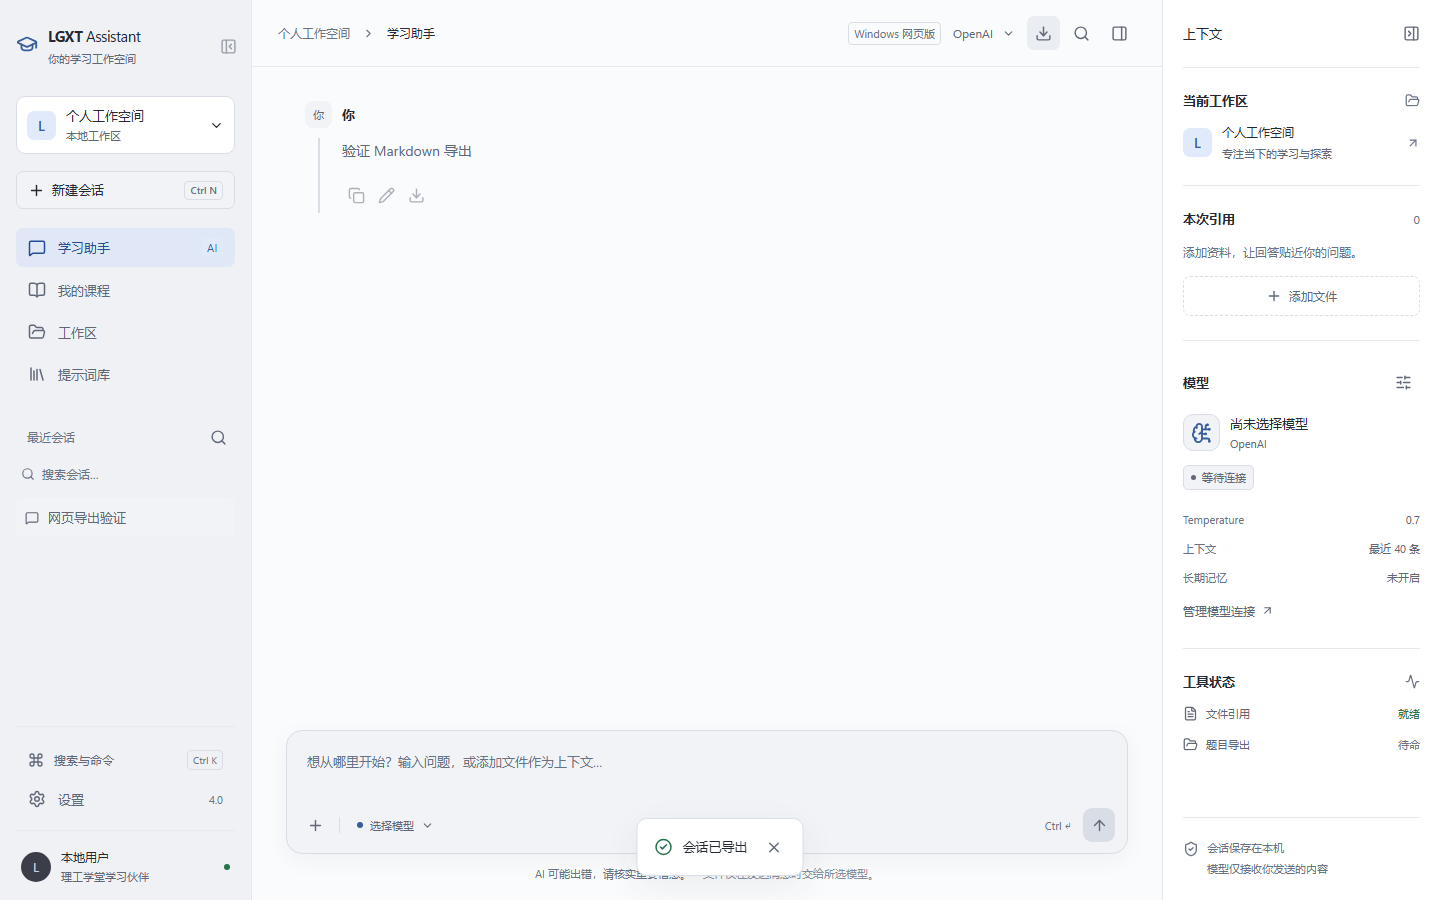
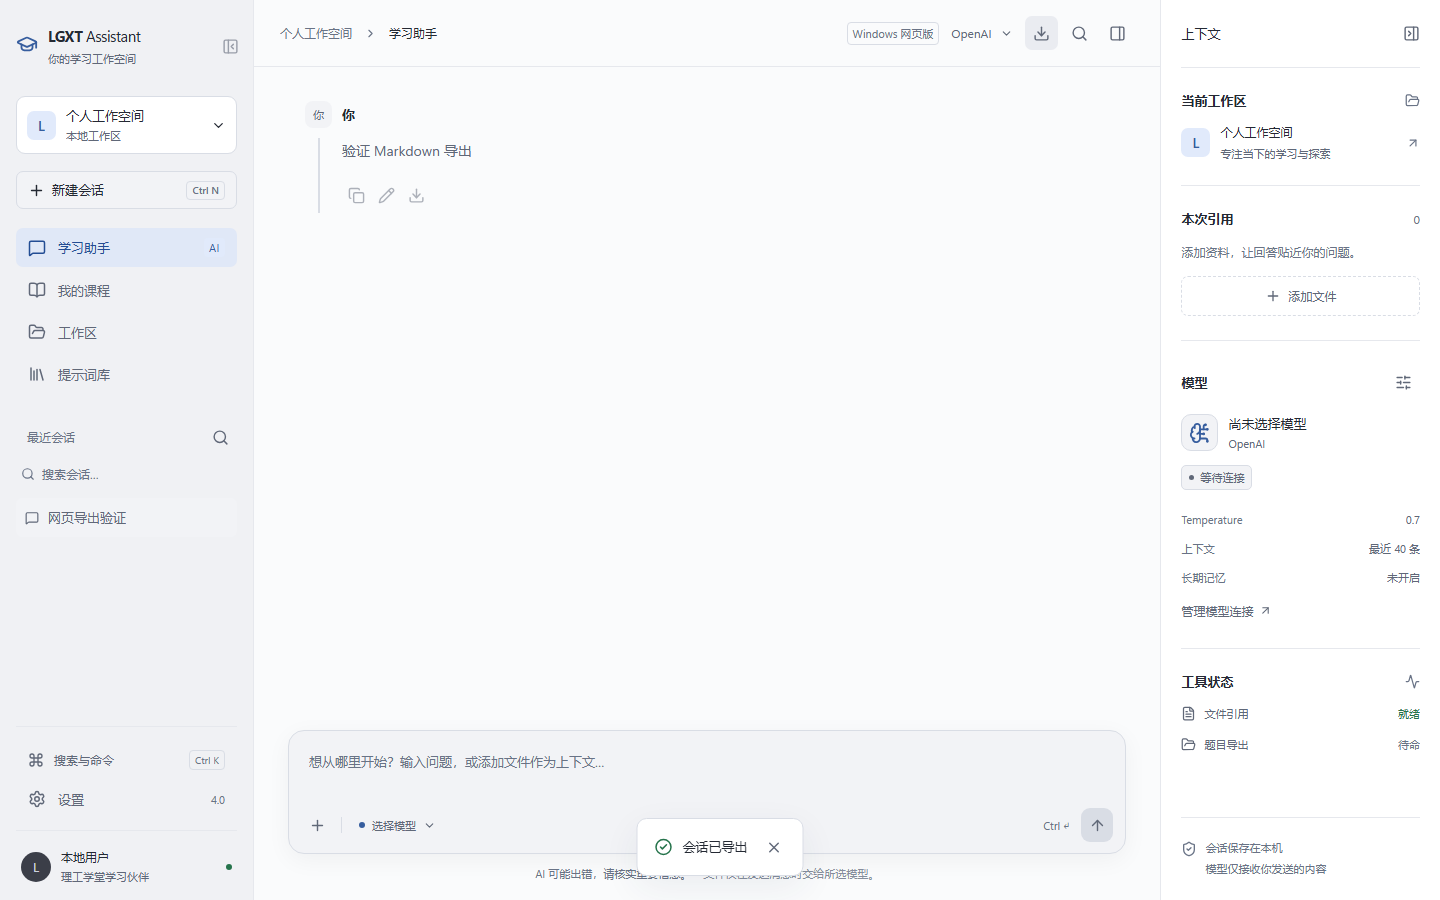
Repair regression findings and isolate blocked Android release gates

diff --git a/frontend/src/components/Courses.jsx b/frontend/src/components/Courses.jsx
@@ -422,11 +422,11 @@ export default function Courses({
                     </small>
                   </div>
                   <Badge
-                    status={r.grade != null && r.grade !== "" ? "success" : ""}
+                    status={r.grade !== null && r.grade !== undefined && r.grade !== "" ? "success" : ""}
                   >
-                    {r.grade != null && r.grade !== ""
+                    {r.grade !== null && r.grade !== undefined && r.grade !== ""
                       ? `${r.grade} 分`
-                      : r.tryTimes != null && r.times != null ? `剩余 ${Math.max(0, Number(r.tryTimes) - Number(r.times))} 次` : "次数未知"}
+                      : r.tryTimes !== null && r.tryTimes !== undefined && r.times !== null && r.times !== undefined ? `剩余 ${Math.max(0, Number(r.tryTimes) - Number(r.times))} 次` : "次数未知"}
                   </Badge>
                   <ArrowRight size={17} />
                 </button>
@@ -504,7 +504,7 @@ function Confirm({ data, onClose, toast }) {
       }}
     >
       <p className="dialog-copy">{data.text}</p>
-      {data.works && <ul className="batch-preview">{data.works.map(w => <li key={w.workId}>{w.workName}（{w.tryTimes != null && w.times != null ? `剩余 ${Math.max(0, Number(w.tryTimes)-Number(w.times))} 次` : "次数未知"}）</li>)}</ul>}
+      {data.works && <ul className="batch-preview">{data.works.map(w => <li key={w.workId}>{w.workName}（{w.tryTimes !== null && w.tryTimes !== undefined && w.times !== null && w.times !== undefined ? `剩余 ${Math.max(0, Number(w.tryTimes)-Number(w.times))} 次` : "次数未知"}）</li>)}</ul>}
       <div className="dialog-actions">
         <Button disabled={busy} onClick={onClose}>
           取消

diff --git a/mobile/src/lgxt_transport.py b/mobile/src/lgxt_transport.py
@@ -47,7 +47,8 @@ class APIClient:
         if (parsed.scheme not in ('http', 'https') or not parsed.hostname or parsed.username
                 or parsed.password or parsed.query or parsed.fragment):
             raise ValueError('无效的平台 API 地址')
-        if parsed.port not in (None, 80 if parsed.scheme == 'http' else 443):
+        default_port = 80 if parsed.scheme == 'http' else 443
+        if parsed.port is not None and parsed.port != default_port:
             raise ValueError('不支持的平台端口')
         self.base_url = base_url.rstrip('/')
         self.allow_insecure = bool(allow_insecure)
@@ -171,8 +172,11 @@ class APIClient:
             parsed, origin = urlsplit(url), urlsplit(self.base_url)
             if (parsed.scheme not in ('http', 'https') or parsed.hostname != origin.hostname
                     or parsed.username or parsed.password or parsed.fragment
-                    or parsed.port not in (None, 443 if parsed.scheme == 'https' else 80)
+                    or (parsed.port is not None and parsed.port not in (80, 443))
                     or (parsed.scheme == 'http' and not self.allow_insecure)):
+                raise ValueError()
+            default_port = 443 if parsed.scheme == 'https' else 80
+            if parsed.port is not None and parsed.port != default_port:
                 raise ValueError()
             addresses = socket.getaddrinfo(parsed.hostname, parsed.port or (443 if parsed.scheme == 'https' else 80), type=socket.SOCK_STREAM)
             if not addresses or any(not ipaddress.ip_address(a[4][0]).is_global for a in addresses):

diff --git a/scripts/check_assignment.py b/scripts/check_assignment.py
@@ -4,6 +4,7 @@ import functools
 import http.server
 import io
 import json
+import sys
 import threading
 from pathlib import Path
 
@@ -104,5 +105,5 @@ try:
   assert page.evaluate('window.__test.writes.length')==1
   assert not errors,errors
   browser.close()
- print(json.dumps({'ok':True,'checks':['three batch scopes','confirmation','cancel','question image','OCR correction','safe math','rich text and table','document persistence','contextual AI','390x844 and keyboard-height layout'],'console_errors':errors}))
+ sys.stdout.write(json.dumps({'ok':True,'checks':['three batch scopes','confirmation','cancel','question image','OCR correction','safe math','rich text and table','document persistence','contextual AI','390x844 and keyboard-height layout'],'console_errors':errors}))
 finally:server.shutdown()

diff --git a/scripts/verify_release.py b/scripts/verify_release.py
@@ -2,6 +2,7 @@
 import argparse
 import hashlib
 import json
+import sys
 import subprocess
 from pathlib import Path
 
@@ -37,6 +38,6 @@ def main():
         if name in entries:assert entries[name]==digest
     if args.tag.endswith('-web'):
         assert not any(name.endswith('.apk') or 'Desktop' in name for name in assets)
-    print(json.dumps({'verified':True,'tag':args.tag,'url':release['html_url'],'assets':sorted(assets),'draft':release['draft']}))
+    sys.stdout.write(json.dumps({'verified':True,'tag':args.tag,'url':release['html_url'],'assets':sorted(assets),'draft':release['draft']}))
 
 if __name__=='__main__':main()

diff --git a/tests/test_mobile.py b/tests/test_mobile.py
@@ -43,8 +43,12 @@ def walk(control):
 
 def controls(page):return list(walk(page.views[-1]))
 
+def matches(control,key,value):
+    actual=getattr(control,key,None)
+    return actual==value
+
 def find(page,typ,**attrs):
-    return next(c for c in controls(page) if isinstance(c,typ) and all(getattr(c,k,None)==v for k,v in attrs.items()))
+    return next(c for c in controls(page) if isinstance(c,typ) and all(matches(c,k,v) for k,v in attrs.items()))
 
 def wait_for(fn):
     for _ in range(200):

diff --git a/scripts/preview_mobile.py b/scripts/preview_mobile.py
@@ -5,4 +5,4 @@ ROOT=Path(__file__).resolve().parents[1]
 sys.path.insert(0,str(ROOT))
 import flet as ft
 from mobile.src.main import main
-ft.app(target=main, view=ft.AppView.WEB_BROWSER, port=8550, host='127.0.0.1', web_renderer=ft.WebRenderer.HTML)
+ft.app(target=main, view=ft.AppView.WEB_BROWSER, port=8551, host='127.0.0.1', web_renderer=ft.WebRenderer.CANVAS_KIT)

diff --git a/docs/VERIFICATION.md b/docs/VERIFICATION.md
@@ -29,7 +29,7 @@ Date: 24 October 2026 (Asia/Singapore). This record separates executed checks fr
 
 Windows local builds and exact-tag GitHub build/startup workflows are being verified. A build command alone is not acceptance; both actual desktop EXEs and the Web EXE must pass their smoke checks. No merge/tag/release is claimed by this interim record.
 
-Android signing secrets are absent (`gh secret list` returned no secrets). No new signed APK, physical-device check or production Android release is claimed. Flet browser preview has additional runtime/toolchain dependencies and must not be mislabeled as Android acceptance.
+Android signing secrets are absent (`gh secret list` returned no secrets). No new signed APK, physical-device check or production Android release is claimed. Flet browser preview required compatible flet-web/FastAPI versions and stalled at its loading screen in this environment. `flet-runtime-loading-390.png` records only that loading state, not the updated Android interface. No Android visual acceptance is claimed.
 
 No real platform login, grade submission, paid model generation, live OCR accuracy benchmark, handwriting/diagram study, LAN deployment or independent final-grade verification was executed. Fixture tests do not establish real-provider compatibility or platform permission.
 
@@ -52,3 +52,5 @@ py -3.13 scripts/check_web.py --exe dist/LGXT-Assistant-Web.exe
 ```
 
 See the GitHub PR and workflow links in the final delivery record for post-commit results. Published assets, if any, are independently checked by `scripts/verify_release.py` against SHA256SUMS and GitHub asset digests. Historical releases are unchanged.
+
+Android dependency blocker: the pinned Flet 0.25.2 runtime requires oauthlib <4, while PYSEC-2026-4114 is fixed in oauthlib 4.0.0. Flet 0.28.3 has the same cap; current Flet 1.0.5 changes the client API and needs a separately validated migration. The Android dependency audit remains a hard failing Android gate, with no ignored advisory or continue-on-error. Windows runtime requirements do not include Flet/oauthlib; its audit and publication are independent. No Android APK will be published from this state.

diff --git a/docs/releases/v4.1.0.md b/docs/releases/v4.1.0.md
@@ -4,7 +4,7 @@ Windows 10/11 x64 + WebView2. EXE and full portable ZIP, SHA256SUMS.txt. No new 
 
 # Assignment upgrade release notes
 
-Channel candidates: Windows desktop **4.1.0**, Windows web **4.2.0-web**, Android **3.3.0-android**. These are beta feature releases; passing CI does not establish stable maturity. Availability is recorded in [verification](docs/VERIFICATION.md) and on each GitHub release page.
+Channel candidates: Windows desktop **4.1.0**, Windows web **4.2.0-web**, Android **3.3.0-android**. These are beta feature releases; passing CI does not establish stable maturity. Availability is recorded in [verification](../VERIFICATION.md) and on each GitHub release page.
 
 The minor increments reflect additive assignment documents, contextual AI and recognition workflows. Desktop advances from 4.0.1 to 4.1.0; web from 4.1.0-web to 4.2.0-web; Android source from historical 3.2.1 to 3.3.0-android. Old workspace/chat files remain usable. Requiring explicit HTTP compatibility is an intentional security behavior change.
 
@@ -20,3 +20,5 @@ The official HTTP endpoint responds; HTTPS was not verified. Insecure compatibil
 Android signing secrets and physical-device/emulator acceptance are unavailable. Its release must remain unpublished. Windows packaging and publication require checks against the exact intended source/tag; checksums are meaningful only for the assets actually attached to that release. Historical releases and tags are not rewritten.
 
 Application license remains AGPL-3.0-only. Tiptap/ProseMirror MIT notices are distributed; prior attribution remains in NOTICE.md.
+
+Android dependency blocker: the pinned Flet 0.25.2 runtime requires oauthlib <4, while PYSEC-2026-4114 is fixed in oauthlib 4.0.0. Flet 0.28.3 has the same cap; current Flet 1.0.5 changes the client API and needs a separately validated migration. The Android dependency audit remains a hard failing Android gate, with no ignored advisory or continue-on-error. Windows runtime requirements do not include Flet/oauthlib; its audit and publication are independent. No Android APK will be published from this state.

diff --git a/docs/releases/v4.2.0-web.md b/docs/releases/v4.2.0-web.md
@@ -4,7 +4,7 @@ Windows 10/11 x64. Local browser EXE, loopback only, SHA256SUMS.txt; retain its 
 
 # Assignment upgrade release notes
 
-Channel candidates: Windows desktop **4.1.0**, Windows web **4.2.0-web**, Android **3.3.0-android**. These are beta feature releases; passing CI does not establish stable maturity. Availability is recorded in [verification](docs/VERIFICATION.md) and on each GitHub release page.
+Channel candidates: Windows desktop **4.1.0**, Windows web **4.2.0-web**, Android **3.3.0-android**. These are beta feature releases; passing CI does not establish stable maturity. Availability is recorded in [verification](../VERIFICATION.md) and on each GitHub release page.
 
 The minor increments reflect additive assignment documents, contextual AI and recognition workflows. Desktop advances from 4.0.1 to 4.1.0; web from 4.1.0-web to 4.2.0-web; Android source from historical 3.2.1 to 3.3.0-android. Old workspace/chat files remain usable. Requiring explicit HTTP compatibility is an intentional security behavior change.
 
@@ -20,3 +20,5 @@ The official HTTP endpoint responds; HTTPS was not verified. Insecure compatibil
 Android signing secrets and physical-device/emulator acceptance are unavailable. Its release must remain unpublished. Windows packaging and publication require checks against the exact intended source/tag; checksums are meaningful only for the assets actually attached to that release. Historical releases and tags are not rewritten.
 
 Application license remains AGPL-3.0-only. Tiptap/ProseMirror MIT notices are distributed; prior attribution remains in NOTICE.md.
+
+Android dependency blocker: the pinned Flet 0.25.2 runtime requires oauthlib <4, while PYSEC-2026-4114 is fixed in oauthlib 4.0.0. Flet 0.28.3 has the same cap; current Flet 1.0.5 changes the client API and needs a separately validated migration. The Android dependency audit remains a hard failing Android gate, with no ignored advisory or continue-on-error. Windows runtime requirements do not include Flet/oauthlib; its audit and publication are independent. No Android APK will be published from this state.

diff --git a/docs/releases/assignment-upgrade.md b/docs/releases/assignment-upgrade.md
@@ -1,6 +1,6 @@
 # Assignment upgrade release notes
 
-Channel candidates: Windows desktop **4.1.0**, Windows web **4.2.0-web**, Android **3.3.0-android**. These are beta feature releases; passing CI does not establish stable maturity. Availability is recorded in [verification](docs/VERIFICATION.md) and on each GitHub release page.
+Channel candidates: Windows desktop **4.1.0**, Windows web **4.2.0-web**, Android **3.3.0-android**. These are beta feature releases; passing CI does not establish stable maturity. Availability is recorded in [verification](../VERIFICATION.md) and on each GitHub release page.
 
 The minor increments reflect additive assignment documents, contextual AI and recognition workflows. Desktop advances from 4.0.1 to 4.1.0; web from 4.1.0-web to 4.2.0-web; Android source from historical 3.2.1 to 3.3.0-android. Old workspace/chat files remain usable. Requiring explicit HTTP compatibility is an intentional security behavior change.
 
@@ -16,3 +16,5 @@ The official HTTP endpoint responds; HTTPS was not verified. Insecure compatibil
 Android signing secrets and physical-device/emulator acceptance are unavailable. Its release must remain unpublished. Windows packaging and publication require checks against the exact intended source/tag; checksums are meaningful only for the assets actually attached to that release. Historical releases and tags are not rewritten.
 
 Application license remains AGPL-3.0-only. Tiptap/ProseMirror MIT notices are distributed; prior attribution remains in NOTICE.md.
+
+Android dependency blocker: the pinned Flet 0.25.2 runtime requires oauthlib <4, while PYSEC-2026-4114 is fixed in oauthlib 4.0.0. Flet 0.28.3 has the same cap; current Flet 1.0.5 changes the client API and needs a separately validated migration. The Android dependency audit remains a hard failing Android gate, with no ignored advisory or continue-on-error. Windows runtime requirements do not include Flet/oauthlib; its audit and publication are independent. No Android APK will be published from this state.

diff --git a/docs/release-channels.md b/docs/release-channels.md
@@ -26,3 +26,5 @@ Audited 24 October 2026: published desktop v4.0.1, web v4.1.0-web, Android histo
 Candidate minor versions: v4.1.0 desktop, v4.2.0-web web, v3.3.0-android Android. Independent feature additions justify each minor increment; Android source metadata does not establish APK readiness. Beta releases are marked prerelease in GitHub, not labeled stable from CI alone. Android publication is blocked until signing provenance and device/emulator checks are available.
 
 Before tagging: merge a reviewed PR by squash after Verify, CodeForge regression, dependency/security, CodeQL and packaging checks pass. Dispatch release builds with a validated existing tag, checkout its exact commit, verify that metadata matches, run source/UI checks and packaged launch. Produce channel-named assets and SHA256SUMS.txt. Create a draft first, verify uploaded asset names/digests, then publish only verified channels. Never overwrite an existing tag or historical assets. See docs/VERIFICATION.md for actual outcomes.
+
+Android dependency blocker: the pinned Flet 0.25.2 runtime requires oauthlib <4, while PYSEC-2026-4114 is fixed in oauthlib 4.0.0. Flet 0.28.3 has the same cap; current Flet 1.0.5 changes the client API and needs a separately validated migration. The Android dependency audit remains a hard failing Android gate, with no ignored advisory or continue-on-error. Windows runtime requirements do not include Flet/oauthlib; its audit and publication are independent. No Android APK will be published from this state.

diff --git a/RELEASE_NOTES.md b/RELEASE_NOTES.md
@@ -16,3 +16,5 @@ The official HTTP endpoint responds; HTTPS was not verified. Insecure compatibil
 Android signing secrets and physical-device/emulator acceptance are unavailable. Its release must remain unpublished. Windows packaging and publication require checks against the exact intended source/tag; checksums are meaningful only for the assets actually attached to that release. Historical releases and tags are not rewritten.
 
 Application license remains AGPL-3.0-only. Tiptap/ProseMirror MIT notices are distributed; prior attribution remains in NOTICE.md.
+
+Android dependency blocker: the pinned Flet 0.25.2 runtime requires oauthlib <4, while PYSEC-2026-4114 is fixed in oauthlib 4.0.0. Flet 0.28.3 has the same cap; current Flet 1.0.5 changes the client API and needs a separately validated migration. The Android dependency audit remains a hard failing Android gate, with no ignored advisory or continue-on-error. Windows runtime requirements do not include Flet/oauthlib; its audit and publication are independent. No Android APK will be published from this state.
